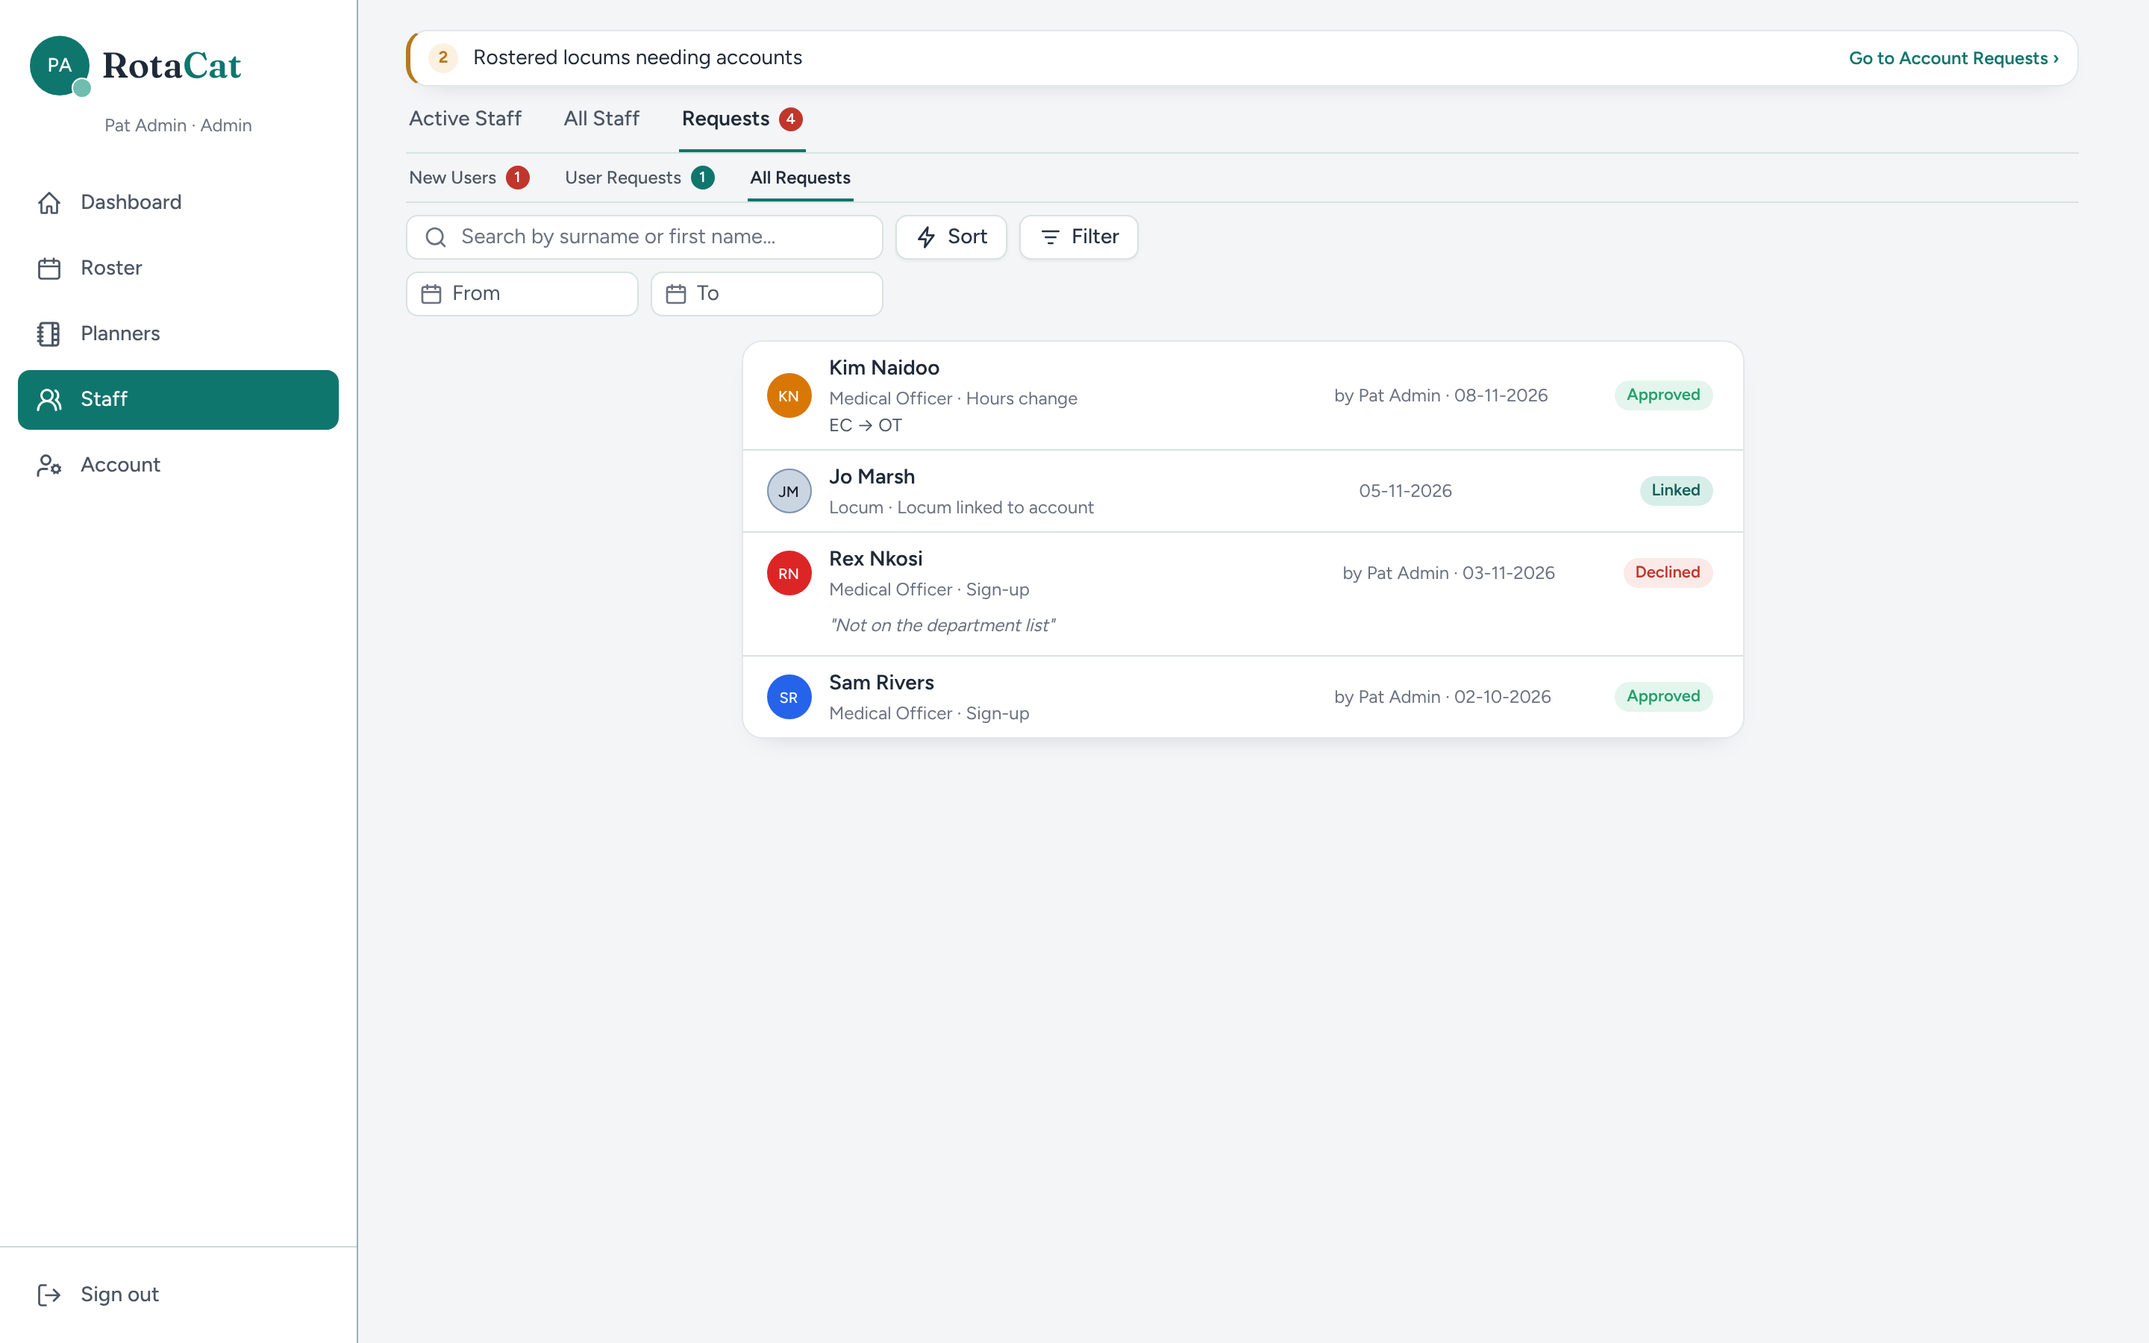
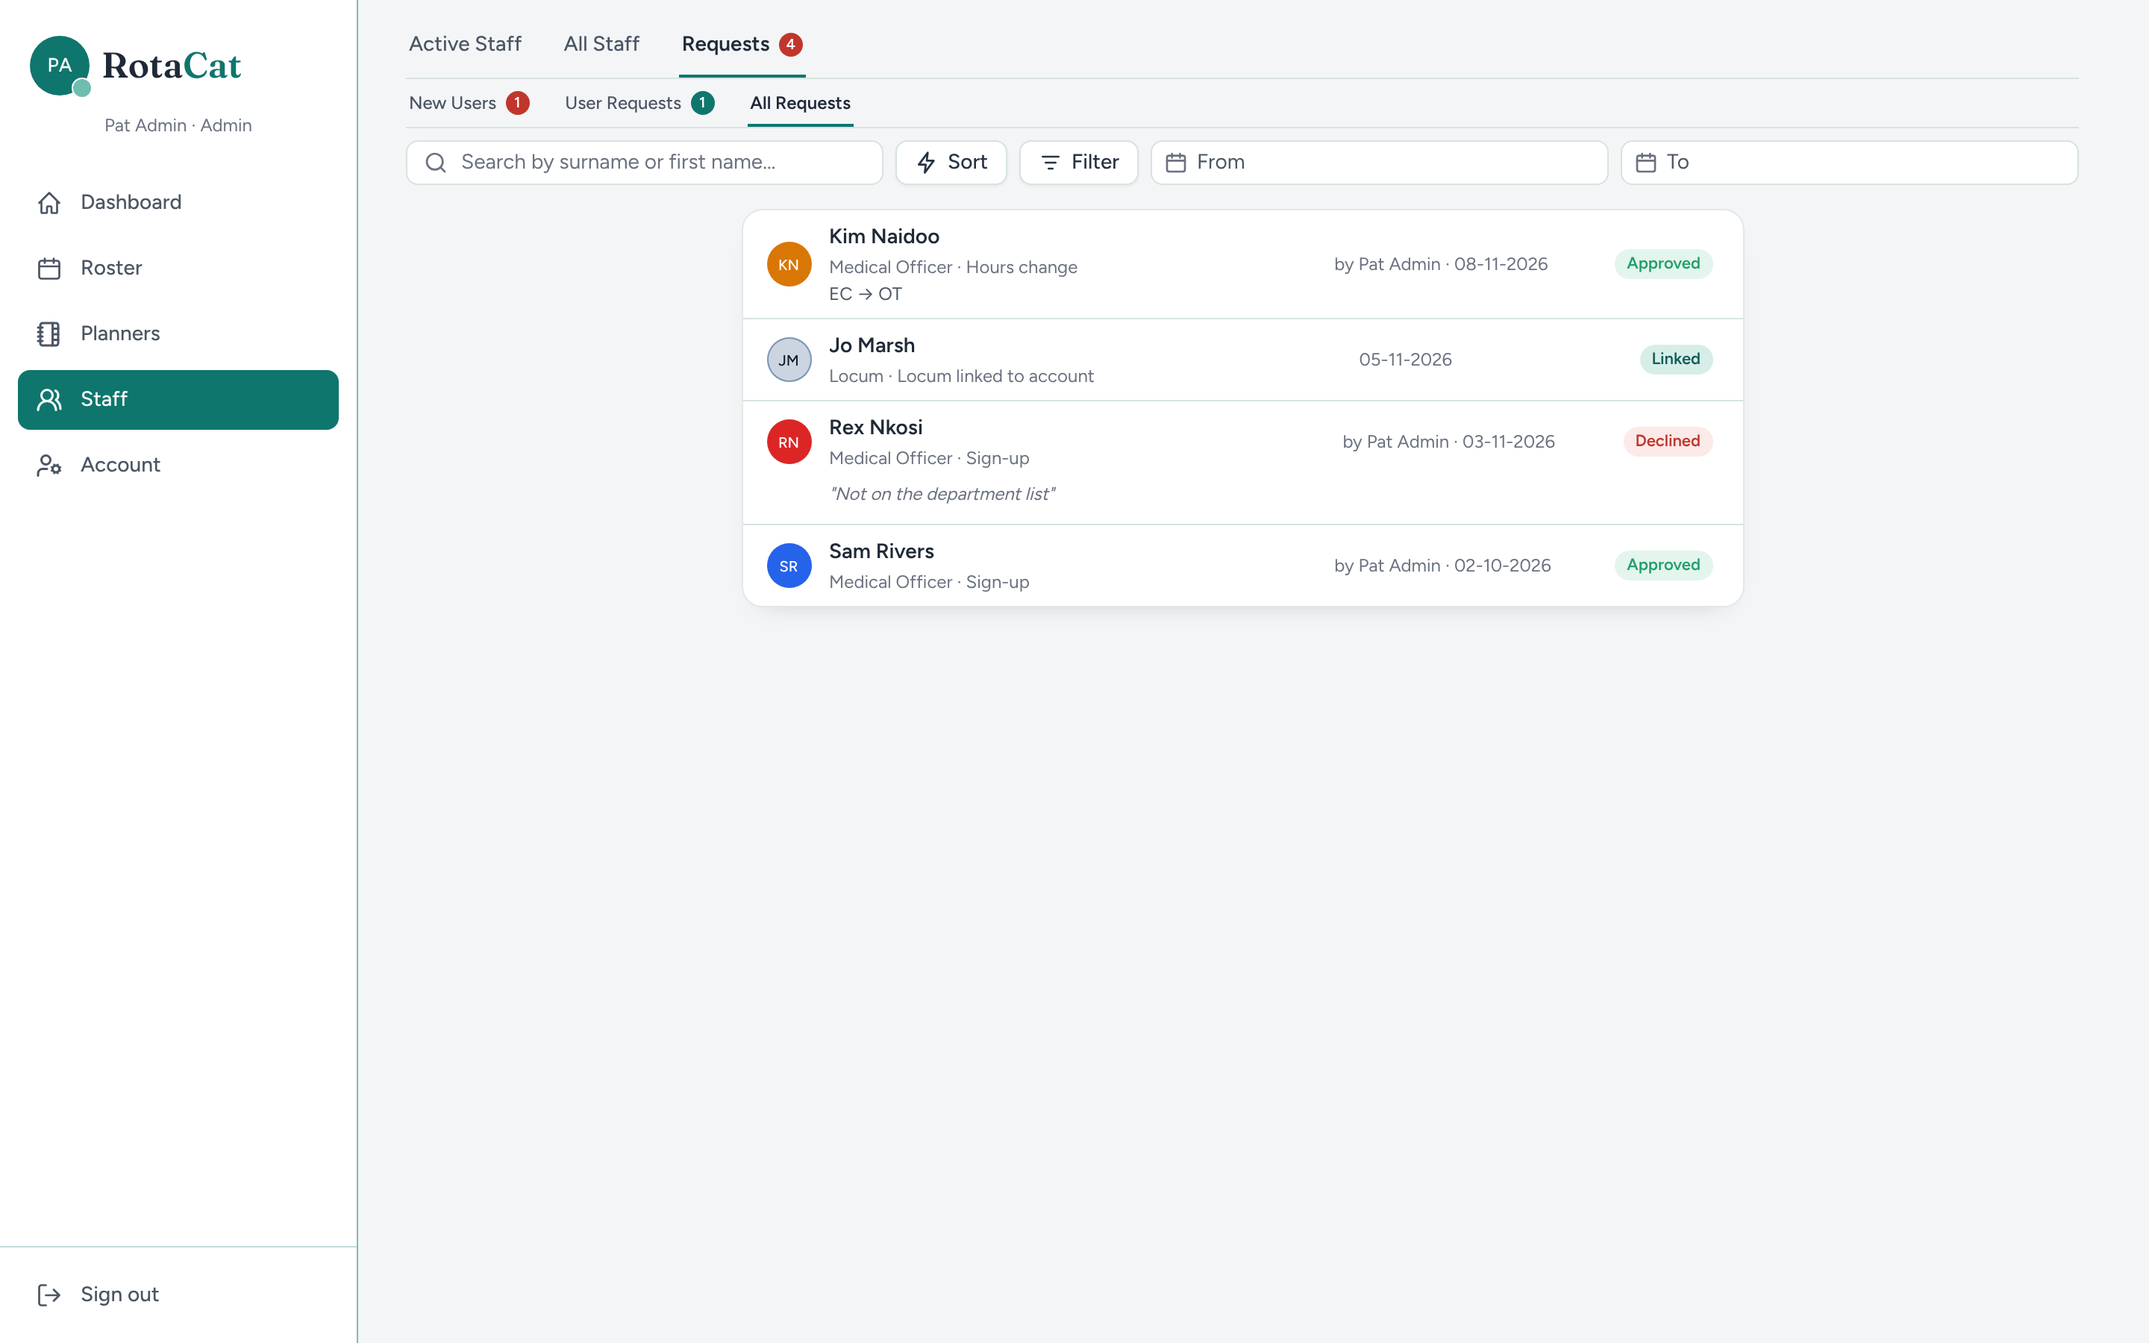
All Requests toolbar on one row; rostered locum shifts modal (#419)
* Roster editing: tidier menus, adjusted shift times, full names in lists

- Vacancy form: the reason is a dropdown again; "Other leave" opens the
  leave type beneath it.
- Doctor picker: a Back link and a named Cancel, so leaving it never
  reads as closing the whole menu. Doctors listed as first name and
  surname, as in every other list; grid chips and lane labels stay
  surname-only for room.
- Shift menus: radio choices aligned to the first line with one Continue
  button, destructive rows in their own group; the close ✕ sits level
  with the title. A doctor on a published roster now gets a menu first
  (take them off, or change their times).
- Adjusted shift times: start_time_override / end_time_override on
  roster_entries, a "Change times" action with its own form, "10h–20h"
  after the name in Rows and Lanes, and hours pages and the dashboard
  counting the adjusted length. The row keeps its shift type. Logged as
  action 'times' and covered by Undo.

Claude-Session: https://claude.ai/code/session_012j9w9p49MqWz6PXzseFAQy

* Roster edit bar: one slim row on the phone, toolbar height on desktop

The phone bar folds to a single row at the top bar's 30px button height
and lifts the ⊕ by its own height, so the two no longer overlap. On
desktop it sits tight under the toolbar with the same button height, so
the two read as one piece of chrome.

Claude-Session: https://claude.ai/code/session_012j9w9p49MqWz6PXzseFAQy
[…]

diff --git a/src/components/LocumContactsPanel.test.jsx b/src/components/LocumContactsPanel.test.jsx
@@ -5,12 +5,14 @@ import { render, screen, waitFor, within } from '@testing-library/react'
 // the tests read the phone list.
 const phone = () => within(document.querySelector('[data-testid="locum-contacts-panel"] ul'))
 import userEvent from '@testing-library/user-event'
+import { MemoryRouter } from 'react-router-dom'
 import LocumContactsPanel from './LocumContactsPanel'
 
 const fetchOpenLocumContacts = vi.fn()
 const fetchContactShiftCounts = vi.fn()
 const fetchLocumProfiles = vi.fn()
 const linkLocumContact = vi.fn()
+const fetchContactShifts = vi.fn()
 vi.mock('../lib/locumCover', async () => {
   const actual = await vi.importActual('../lib/locumCover')
   return {
@@ -19,6 +21,7 @@ vi.mock('../lib/locumCover', async () => {
     fetchContactShiftCounts: (...a) => fetchContactShiftCounts(...a),
     fetchLocumProfiles: (...a) => fetchLocumProfiles(...a),
     linkLocumContact: (...a) => linkLocumContact(...a),
+    fetchContactShifts: (...a) => fetchContactShifts(...a),
   }
 })
 vi.mock('./AddStaffModal', () => ({ default: ({ initialValues }) => <div>AddStaffStub: {initialValues.name} {initialValues.role}</div> }))
@@ -31,17 +34,18 @@ describe('LocumContactsPanel', () => {
     fetchContactShiftCounts.mockReset().mockResolvedValue(new Map([['c-1', 3]]))
     fetchLocumProfiles.mockReset().mockResolvedValue([])
     linkLocumContact.mockReset().mockResolvedValue(undefined)
+    fetchContactShifts.mockReset().mockResolvedValue([])
   })
 
   it('renders nothing when every locum on the roster has an account', async () => {
     fetchOpenLocumContacts.mockResolvedValue([])
-    const { container } = render(<LocumContactsPanel />)
+    const { container } = render(<MemoryRouter><LocumContactsPanel /></MemoryRouter>)
     await waitFor(() => expect(fetchOpenLocumContacts).toHaveBeenCalled())
     expect(container).toBeEmptyDOMElement()
   })
 
   it('lists a contact with their shifts and a WhatsApp invite that carries the sign-up link', async () => {
-    render(<LocumContactsPanel />)
+    render(<MemoryRouter><LocumContactsPanel /></MemoryRouter>)
     expect((await screen.findAllByText('Jo Marsh')).length).toBeGreaterThan(0)
     expect(phone().getByText(/3 shifts/)).toBeInTheDocument()
     const invite = phone().getByRole('link', { name: 'WhatsApp Jo' })
@@ -55,7 +59,7 @@ describe('LocumContactsPanel', () => {
 
   it('"Create account" opens Add staff prefilled as a locum', async () => {
     const user = userEvent.setup()
-    render(<LocumContactsPanel />)
+    render(<MemoryRouter><LocumContactsPanel /></MemoryRouter>)
     await screen.findAllByText('Jo Marsh')
     await user.click(phone().getByRole('button', { name: "Create Jo's account" }))
     expect(screen.getByText('AddStaffStub: Jo locum')).toBeInTheDocument()
@@ -65,7 +69,7 @@ describe('LocumContactsPanel', () => {
     fetchLocumProfiles.mockResolvedValue([{ id: 'loc-9', name: 'Jo', surname: 'Marsh', phone: '+27 82 123 4567' }])
     const onLinked = vi.fn()
     const user = userEvent.setup()
-    render(<LocumContactsPanel onLinked={onLinked} />)
+    render(<MemoryRouter><LocumContactsPanel onLinked={onLinked} /></MemoryRouter>)
     expect((await screen.findAllByTestId('contact-match'))[0]).toHaveTextContent('Same mobile as Jo Marsh’s account.')
     await user.click(phone().getByRole('button', { name: 'Move the shifts onto it' }))
     await waitFor(() => expect(linkLocumContact).toHaveBeenCalledWith({ contactId: 'c-1', profileId: 'loc-9' }))
@@ -75,7 +79,7 @@ describe('LocumContactsPanel', () => {
   it('with no matching mobile, an account can still be picked by hand', async () => {
     fetchLocumProfiles.mockResolvedValue([{ id: 'loc-5', name: 'Jo', surname: 'Marsh-Lee', phone: '0830000000' }])
     const user = userEvent.setup()
-    render(<LocumContactsPanel />)
+    render(<MemoryRouter><LocumContactsPanel /></MemoryRouter>)
     await screen.findAllByText('Jo Marsh')
     expect(screen.queryByTestId('contact-match')).not.toBeInTheDocument()
     await user.click(phone().getByRole('button', { name: 'Link Jo to an existing account' }))
@@ -88,7 +92,23 @@ describe('LocumContactsPanel', () => {
 
   it('reports its count to the page, for the tab badge and the notice', async () => {
     const onCount = vi.fn()
-    render(<LocumContactsPanel onCount={onCount} />)
+    render(<MemoryRouter><LocumContactsPanel onCount={onCount} /></MemoryRouter>)
     await waitFor(() => expect(onCount).toHaveBeenCalledWith(1))
+  })
+
+  it('tapping a row lists their rostered shifts, newest first, each linking to its cell on the roster', async () => {
+    fetchContactShifts.mockResolvedValue([
+      { id: 'e2', date: '2026-11-20', rosterMonthId: 'rm1', code: 'WD_12' },
+      { id: 'e1', date: '2026-11-03', rosterMonthId: 'rm1', code: 'WD_08' },
+    ])
+    const user = userEvent.setup()
+    render(<MemoryRouter><LocumContactsPanel /></MemoryRouter>)
+    await screen.findAllByText('Jo Marsh')
+    await user.click(phone().getByTestId('locum-contact-row'))
+    const list = within(await screen.findByTestId('contact-shifts'))
+    const rows = list.getAllByRole('listitem')
+    expect(rows[0]).toHaveTextContent('20 Nov 2026 · 12h-22h')
+    expect(rows[1]).toHaveTextContent('3 Nov 2026 · 08h-18h')
+    expect(within(rows[0]).getByRole('link', { name: /View on roster/ })).toHaveAttribute('href', '/roster/rm1?date=2026-11-20&entry=e2')
   })
 })

diff --git a/src/components/LocumContactsPanel.jsx b/src/components/LocumContactsPanel.jsx
@@ -6,8 +6,12 @@ import AddStaffModal from './AddStaffModal'
 import SelectMenu from './SelectMenu'
 import { formatPhoneDisplay, phoneTelHref, phoneWhatsAppMessageHref } from '../lib/phone'
 import {
-  fetchOpenLocumContacts, fetchContactShiftCounts, fetchLocumProfiles, findByPhone, linkLocumContact, locumInviteText,
+  fetchOpenLocumContacts, fetchContactShiftCounts, fetchContactShifts, fetchLocumProfiles, findByPhone, linkLocumContact, locumInviteText,
 } from '../lib/locumCover'
+import { Link } from 'react-router-dom'
+import Modal from './Modal'
+import { formatDayMonthYear } from '../lib/dateRange'
+import { shiftTimeRange } from '../lib/shiftLabels'
 
 // Locums who were put on the roster with only a name and mobile (see
 // NewLocumModal) and still have no account. Each one is a loose end: they
@@ -34,6 +38,14 @@ export default function LocumContactsPanel({ onLinked, onCount }) {
   const [linkTarget, setLinkTarget] = useState(null)
   const [busy, setBusy] = useState(false)
   const [error, setError] = useState('')
+  // Tapping a row: their rostered shifts, newest first, each linking to
+  // its cell on the roster.
+  const [shiftsFor, setShiftsFor] = useState(null) // { row, shifts } | null
+
+  async function openShifts(row) {
+    setShiftsFor({ row, shifts: null })
+    setShiftsFor({ row, shifts: await fetchContactShifts(row.id) })
+  }
 
   async function load() {
     const [open, locums] = await Promise.all([fetchOpenLocumContacts(), fetchLocumProfiles()])
@@ -134,7 +146,7 @@ export default function LocumContactsPanel({ onLinked, onCount }) {
       <ul className="divide-y divide-slate-line md:hidden">
         {prepared.map(({ row, count, fullName, match, inviteHref }) => (
           <li key={row.id} className="px-4 py-1">
-            <div className="flex items-center gap-3 py-1">
+            <div className="flex cursor-pointer items-center gap-3 py-1" onClick={() => openShifts(row)} data-testid="locum-contact-row">
               <ProfileAvatar profile={row} size={40} className="flex-shrink-0" />
               <div className="min-w-0 flex-1">
                 <span className="block truncate text-sm font-medium text-ink">{fullName}</span>
@@ -160,7 +172,7 @@ export default function LocumContactsPanel({ onLinked, onCount }) {
         <tbody>
           {prepared.map(({ row, count, fullName, match, inviteHref }) => (
             <Fragment key={row.id}>
-              <tr className="border-b border-slate-line last:border-0 transition-colors hover:bg-canvas-sunken">
+              <tr className="cursor-pointer border-b border-slate-line last:border-0 transition-colors hover:bg-canvas-sunken" onClick={() => openShifts(row)}>
                 <td className="px-2.5 py-1.5">
                   <div className="flex items-center gap-2.5">
                     <ProfileAvatar profile={row} size={30} className="flex-shrink-0" />
@@ -183,6 +195,31 @@ export default function LocumContactsPanel({ onLinked, onCount }) {
           ))}
         </tbody>
       </table>
+
+      {shiftsFor && (
+        <Modal title={`${shiftsFor.row.name} ${shiftsFor.row.surname} — rostered shifts`} onClose={() => setShiftsFor(null)}>
+          {shiftsFor.shifts === null ? (
+            <p className="text-sm text-ink-muted">Loading…</p>
+          ) : shiftsFor.shifts.length === 0 ? (
+            <p className="text-sm text-ink-muted">No shifts on the roster.</p>
+          ) : (
+            <ul className="divide-y divide-slate-line" data-testid="contact-shifts">
+              {shiftsFor.shifts.map(s => (
+                <li key={s.id} className="flex items-center justify-between gap-3 py-2 text-sm">
+                  <span className="text-ink">{formatDayMonthYear(s.date)} · {shiftTimeRange(s.code)}</span>
+                  <Link
+                    to={`/roster/${s.rosterMonthId}?date=${s.date}&entry=${s.id}`}
+                    onClick={() => setShiftsFor(null)}
+                    className="flex-shrink-0 text-xs font-medium text-accent hover:underline"
+                  >
+                    View on roster ›
+                  </Link>
+                </li>
+              ))}
+            </ul>
+          )}
+        </Modal>
+      )}
 
       {creatingFor && (
         <AddStaffModal

diff --git a/src/pages/StaffListPage.jsx b/src/pages/StaffListPage.jsx
@@ -1247,6 +1247,12 @@ export default function StaffListPage() {
           }]
           const clearActive = historyFiltersActive(historyFilters, historySearch)
           const onClearAll = () => { setHistoryFilters(EMPTY_HISTORY_FILTERS); setHistorySearch('') }
+          const dateRange = fullWidth => (
+            <>
+              <DateFieldButton label="From" fullWidth={fullWidth} value={historyFilters.dateFrom} max={historyFilters.dateTo || undefined} onChange={setF('dateFrom')} />
+              <DateFieldButton label="To" fullWidth={fullWidth} value={historyFilters.dateTo} min={historyFilters.dateFrom || undefined} onChange={setF('dateTo')} />
+            </>
+          )
           return (
             <>
               <div className="hidden md:block">
@@ -1260,14 +1266,12 @@ export default function StaffListPage() {
                   mobileMode="inline"
                   active={clearActive}
                   onClearAll={onClearAll}
+                  desktopTrailing={dateRange(false)}
                 />
               </div>
-              {/* The date range stays on the row at every width: the FAB has
-                  no slot for one. */}
-              <div className="mt-2 flex w-full gap-2 md:w-80">
-                <DateFieldButton label="From" fullWidth value={historyFilters.dateFrom} max={historyFilters.dateTo || undefined} onChange={setF('dateFrom')} />
-                <DateFieldButton label="To" fullWidth value={historyFilters.dateTo} min={historyFilters.dateFrom || undefined} onChange={setF('dateTo')} />
-              </div>
+              {/* Below md the date range gets its own row: the FAB has no
+                  slot for one. From md it sits on the toolbar row. */}
+              <div className="mt-2 flex w-full gap-2 md:hidden">{dateRange(true)}</div>
               <FloatingActionMenu
                 search={{ value: historySearch, onChange: setHistorySearch, placeholder: 'Search by surname or first name…' }}
                 sort={{ facets: sortFacets, active: historySort !== 'desc' }}

diff --git a/src/pages/RosterGridPage.jsx b/src/pages/RosterGridPage.jsx
@@ -306,7 +306,11 @@ export default function RosterGridPage() {
     if (!rosterMonth || loading || !date) return
     if (/^\d{4}-\d{2}-\d{2}$/.test(date)) {
       const doctor = searchParams.get('doctor')
-      const target = doctor ? entries.find(e => e.date === date && e.profile_id === doctor) : null
+      // &entry=<roster entry id>: a particular row (a locum contact's shift,
+      // which has no profile to match on).
+      const entryId = searchParams.get('entry')
+      const target = (entryId && entries.find(e => e.id === entryId))
+        || (doctor ? entries.find(e => e.date === date && e.profile_id === doctor) : null)
       if (layout !== 'rows') setLayout('rows')
       if (viewMode === 'week') {
         const week = weeks.findIndex(w => w.some(d => d.dateStr === date))
@@ -315,7 +319,7 @@ export default function RosterGridPage() {
       if (target) setPendingJumpId(target.id)
       else setPendingJumpDate(date)
     }
-    setSearchParams(prev => { const next = new URLSearchParams(prev); next.delete('date'); next.delete('doctor'); return next }, { replace: true })
+    setSearchParams(prev => { const next = new URLSearchParams(prev); next.delete('date'); next.delete('doctor'); next.delete('entry'); return next }, { replace: true })
     // eslint-disable-next-line react-hooks/exhaustive-deps -- runs once the roster has loaded
   }, [rosterMonth?.id, loading])
 

diff --git a/src/lib/locumCover.js b/src/lib/locumCover.js
@@ -127,6 +127,23 @@ export async function fetchContactShiftCounts(contactIds) {
   return counts
 }
 
+// A contact's rostered shifts, most recent first: [{ id, date,
+// rosterMonthId, code }]. Never throws.
+export async function fetchContactShifts(contactId) {
+  try {
+    const { data, error } = await supabase
+      .from('roster_entries')
+      .select('id, date, roster_month_id, shift_types(code)')
+      .eq('locum_contact_id', contactId)
+      .order('date', { ascending: false })
+    if (error) return []
+    return (data || []).map(r => ({ id: r.id, date: r.date?.slice(0, 10), rosterMonthId: r.roster_month_id, code: r.shift_types?.code || null }))
+      .sort((a, b) => (b.date || '').localeCompare(a.date || ''))
+  } catch {
+    return []
+  }
+}
+
 // Two mobile numbers are the same person's when their last nine digits
 // match: "082 123 4567", "0821234567" and "+27 82 123 4567" all compare
 // equal. Null for anything too short to be a number.

diff --git a/src/pages/RosterGridPage.test.jsx b/src/pages/RosterGridPage.test.jsx
@@ -107,6 +107,19 @@ describe('RosterGridPage day blocks', () => {
     }
   })
 
+  it('a link naming an entry (&entry=) scrolls to and lights that row — a locum contact\'s shift has no doctor to match', async () => {
+    const original = Element.prototype.scrollIntoView
+    const scrolled = []
+    Element.prototype.scrollIntoView = function scrollIntoView() { scrolled.push(this.getAttribute('data-entry-id')) }
+    try {
+      renderPage('/roster/rm1?date=2026-08-12&entry=e5')
+      await screen.findByText('August 2026')
+      await waitFor(() => expect(scrolled).toContain('e5'))
+    } finally {
+      Element.prototype.scrollIntoView = original
+    }
+  })
+
   it('a "Go to roster" link with a doctor scrolls to and lights that doctor\'s shift', async () => {
     const scrolled = []
     const original = Element.prototype.scrollIntoView
